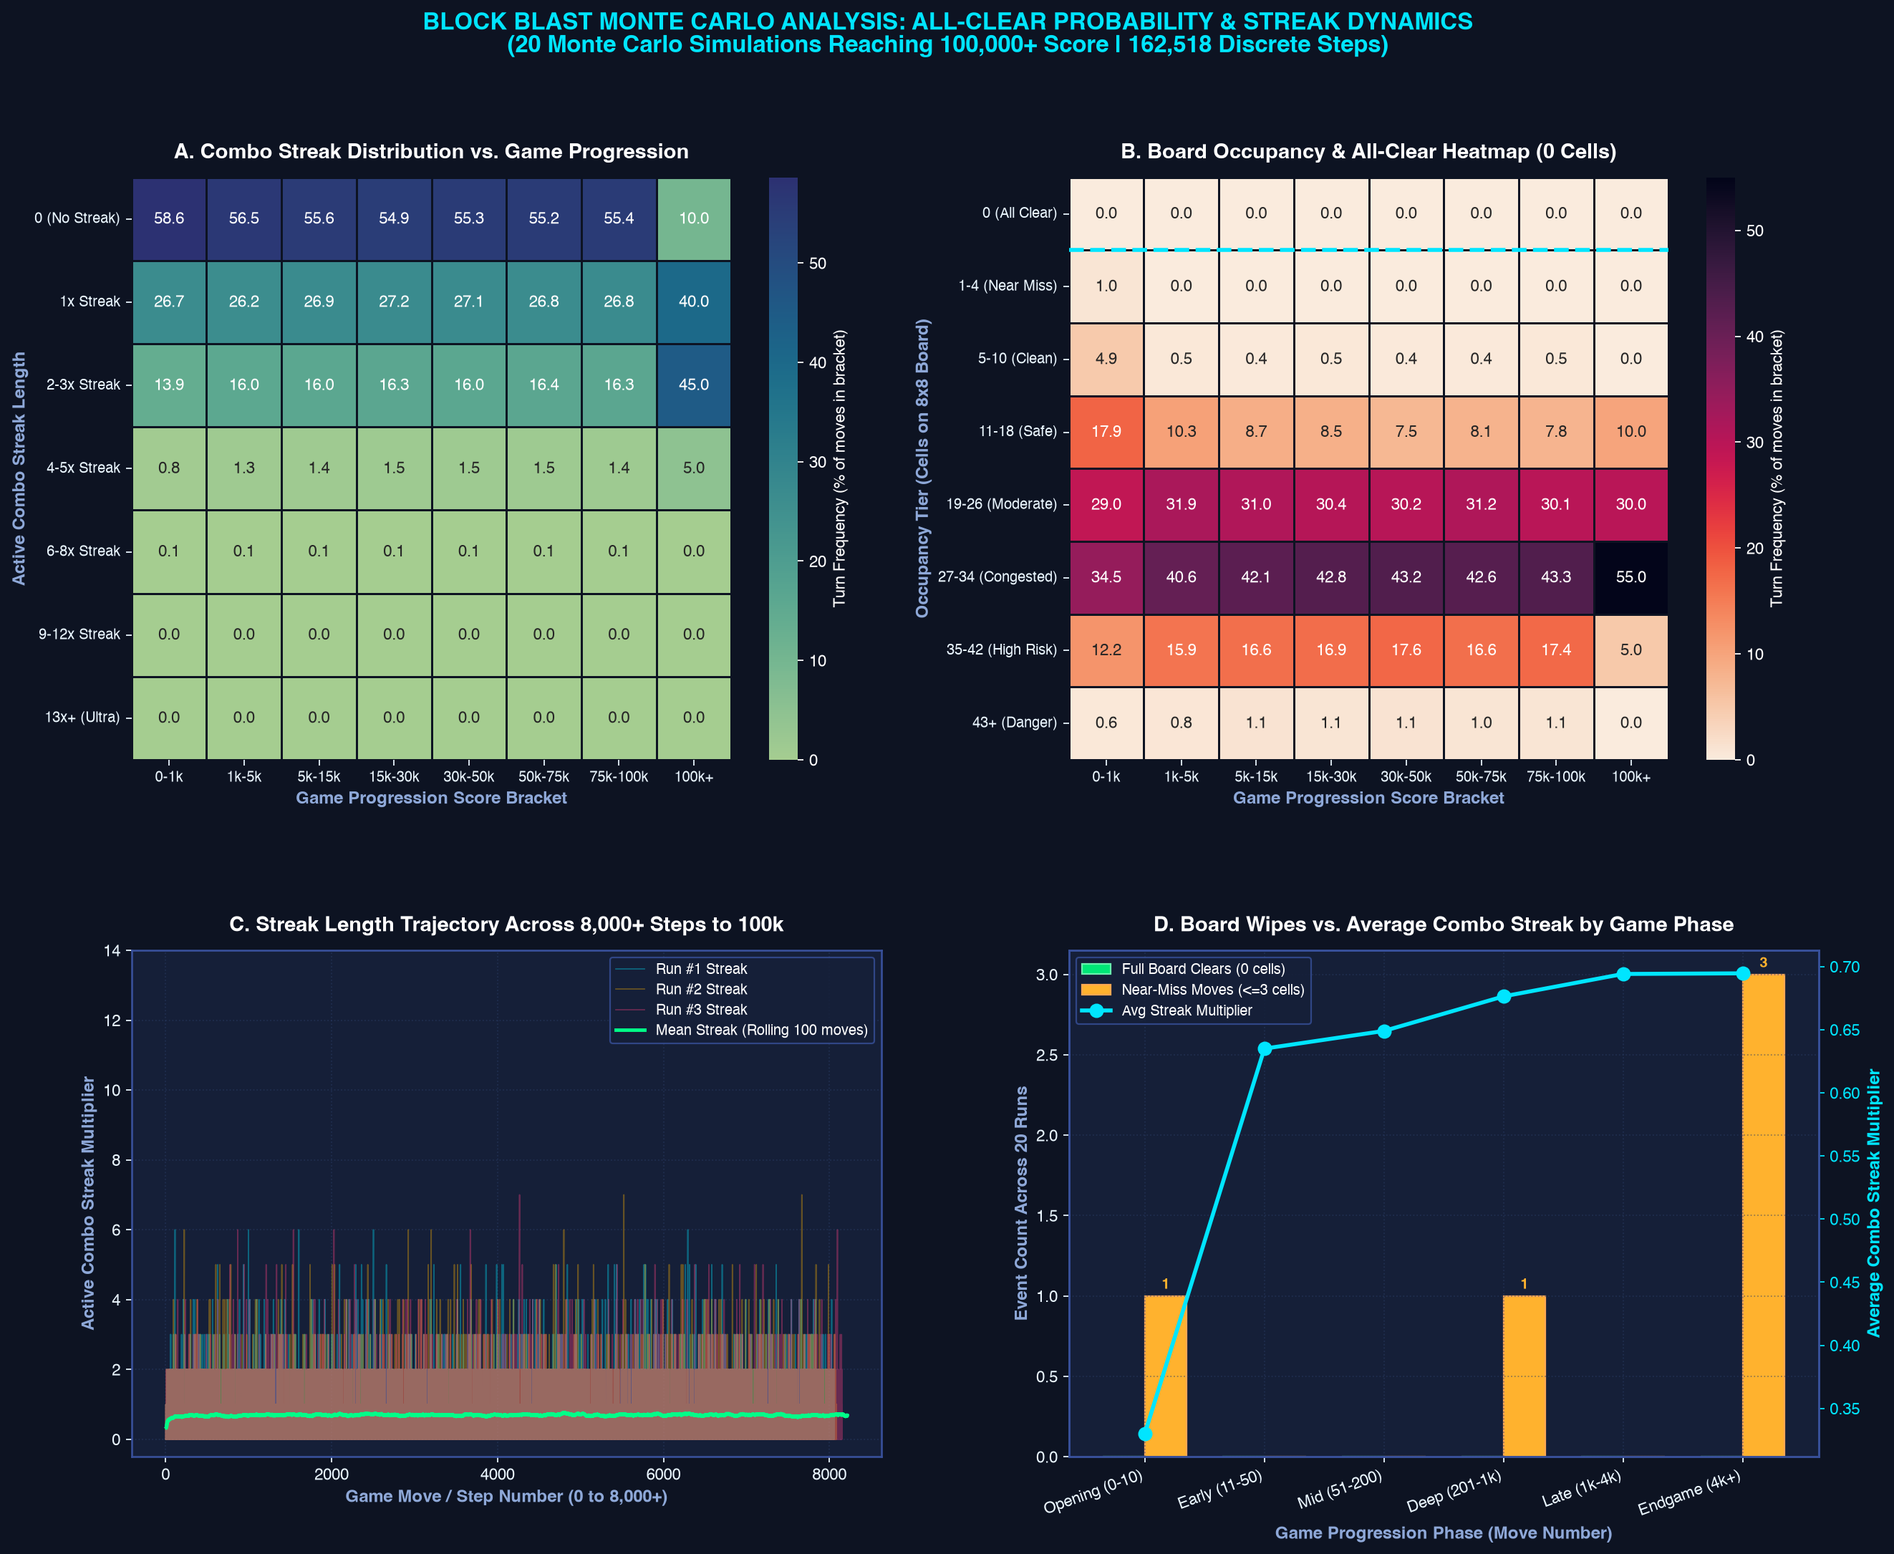
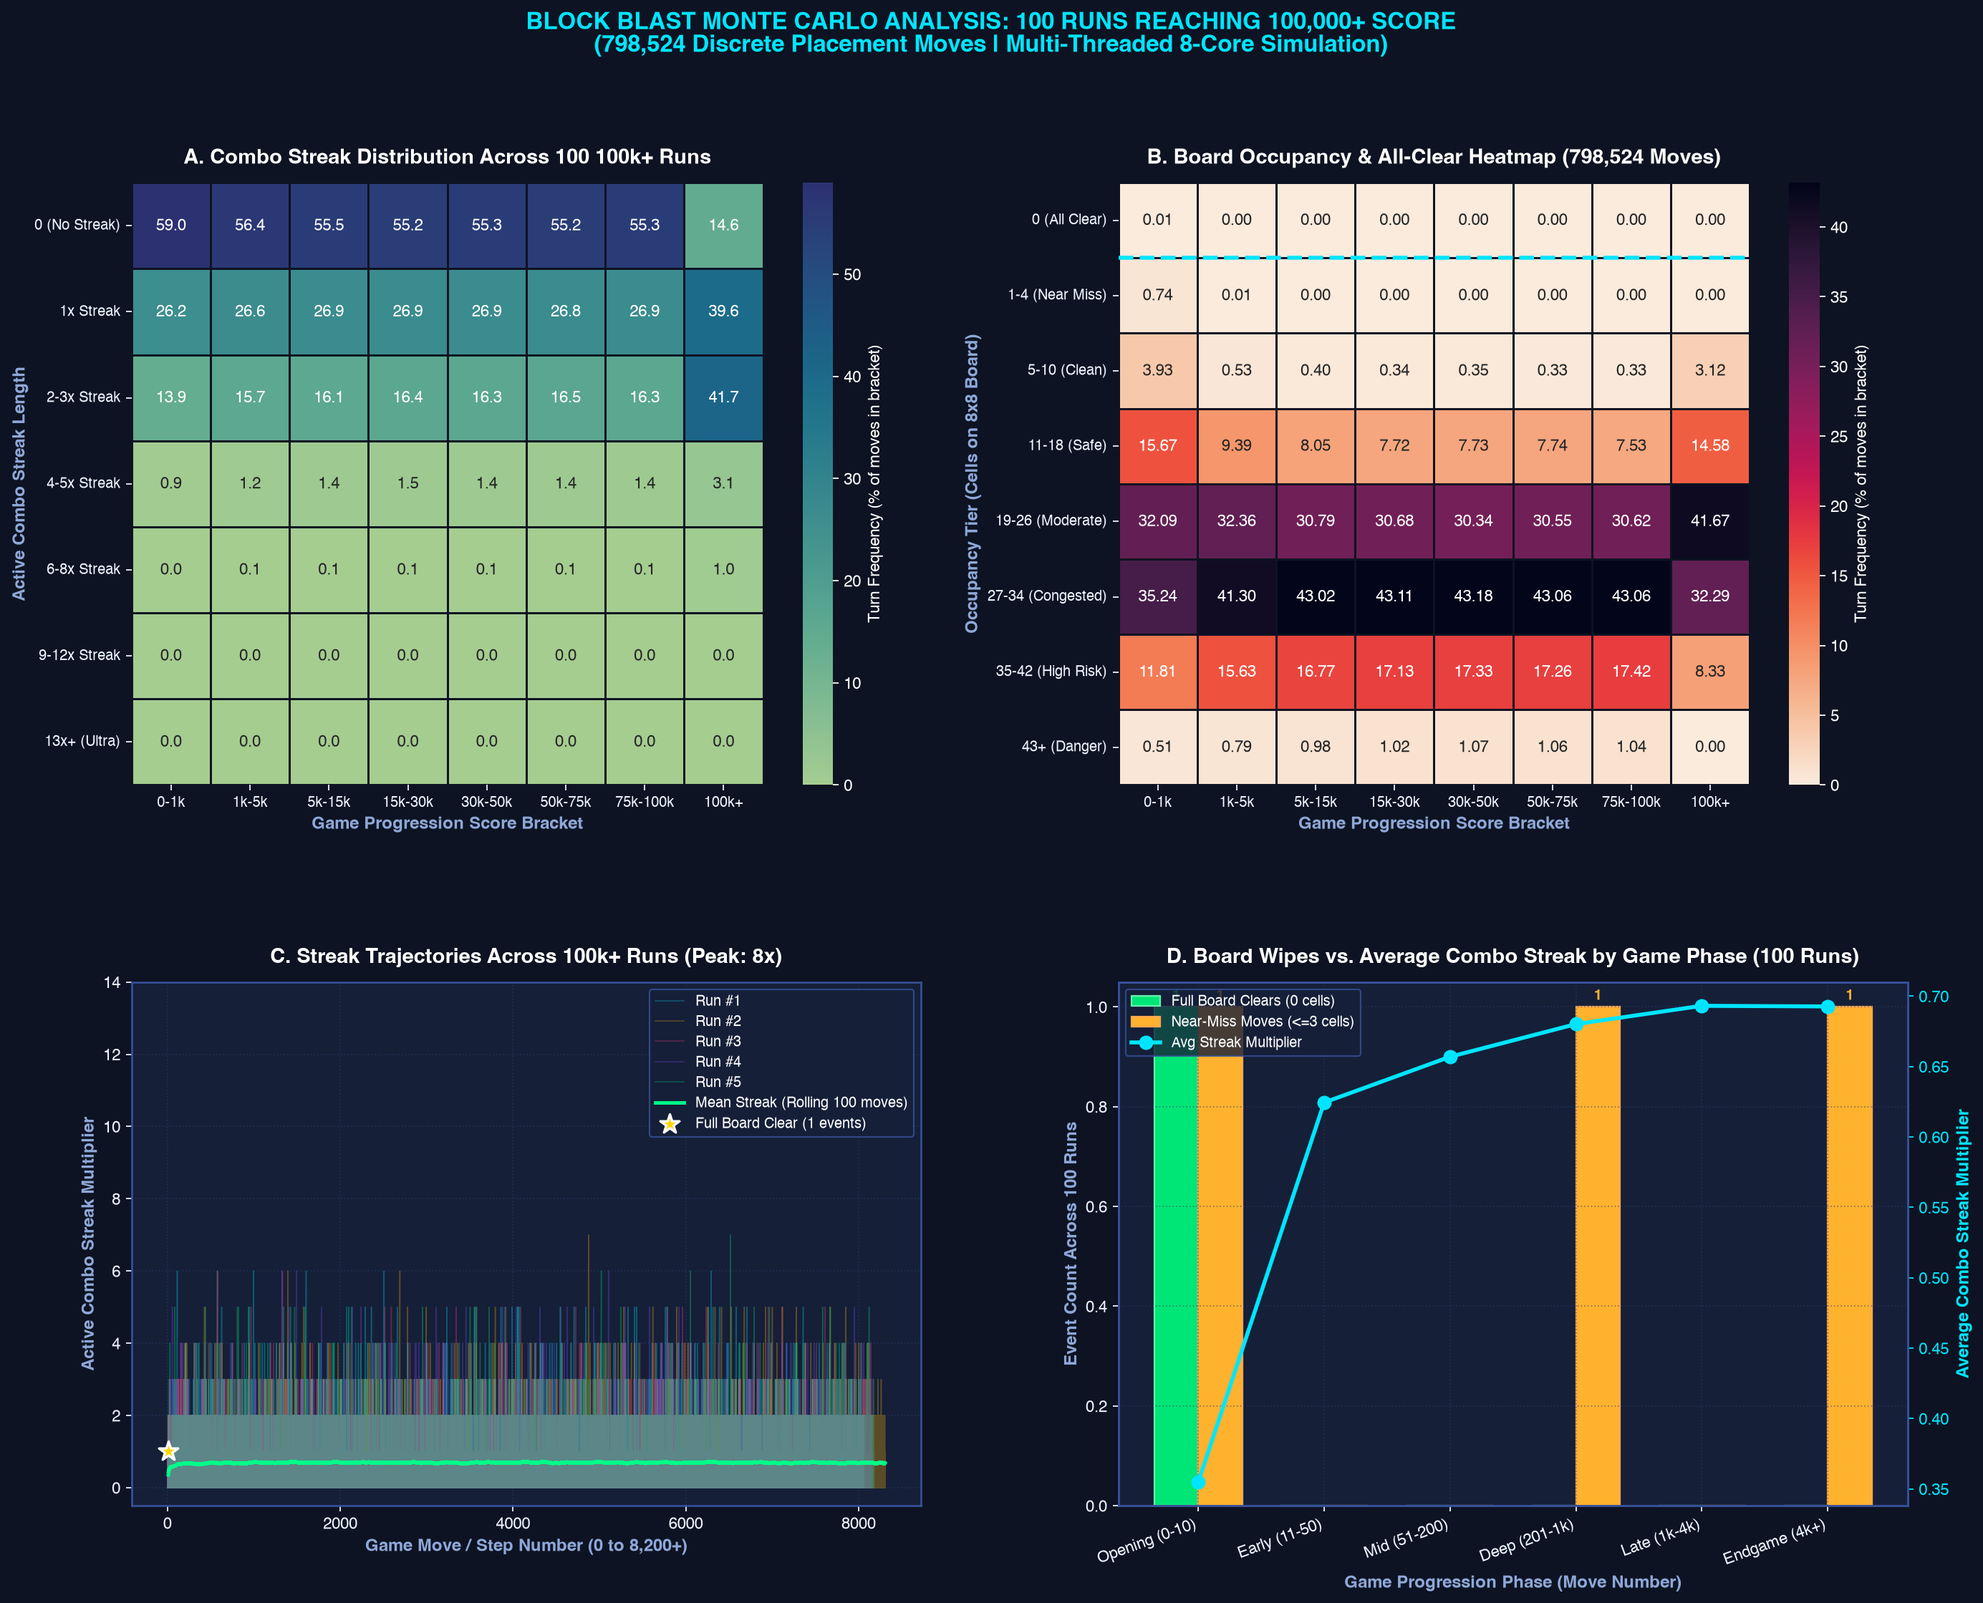
Add 100-run Monte Carlo 100k analysis and document 1M score reverse engineering findings

diff --git a/run_100k_monte_carlo_100runs.py b/run_100k_monte_carlo_100runs.py
@@ -1,0 +1,270 @@
+import ctypes
+import numpy as np
+import pandas as pd
+import matplotlib.pyplot as plt
+import seaborn as sns
+import multiprocessing as mp
+import time
+import os
+
+# Configure clean aesthetic
+plt.style.use('dark_background')
+plt.rcParams['font.sans-serif'] = 'Helvetica'
+plt.rcParams['axes.edgecolor'] = '#38509A'
+plt.rcParams['axes.linewidth'] = 1.2
+
+TARGET_SCORE = 100000
+NUM_GAMES = 100
+
+def run_single_game(args):
+    game_idx, seed = args
+    # Load C engine per process
+    clib = ctypes.CDLL('./libblockblast.dylib')
+    clib.bb_create.argtypes = [ctypes.c_uint64]
+    clib.bb_create.restype = ctypes.c_void_p
+    clib.bb_step.argtypes = [ctypes.c_void_p, ctypes.c_int]
+    clib.bb_step.restype = ctypes.c_int
+    clib.bb_get_best_action.argtypes = [ctypes.c_void_p]
+    clib.bb_get_best_action.restype = ctypes.c_int
+    clib.bb_get_board.argtypes = [ctypes.c_void_p]
+    clib.bb_get_board.restype = ctypes.c_uint64
+    clib.bb_get_score.argtypes = [ctypes.c_void_p]
+    clib.bb_get_score.restype = ctypes.c_int
+    clib.bb_get_combo.argtypes = [ctypes.c_void_p]
+    clib.bb_get_combo.restype = ctypes.c_int
+    clib.bb_is_terminated.argtypes = [ctypes.c_void_p]
+    clib.bb_is_terminated.restype = ctypes.c_int
+    clib.bb_destroy.argtypes = [ctypes.c_void_p]
+
+    p = clib.bb_create(seed)
+    records = []
+    all_clears = []
+    
+    step = 0
+    t_start = time.time()
+    
+    while not clib.bb_is_terminated(p):
+        act = clib.bb_get_best_action(p)
+        if act < 0:
+            break
+            
+        clib.bb_step(p, act)
+        score = clib.bb_get_score(p)
+        combo = clib.bb_get_combo(p)
+        b = clib.bb_get_board(p)
+        filled = bin(b).count('1')
+        
+        is_clear = (b == 0)
+        is_near_miss = (1 <= filled <= 3)
+        
+        records.append((game_idx, step, score, combo, filled, is_clear, is_near_miss))
+        
+        if is_clear:
+            all_clears.append({
+                'game_id': game_idx,
+                'step': step,
+                'score': score,
+                'combo': combo,
+                'filled': filled
+            })
+            
+        step += 1
+        if score >= TARGET_SCORE:
+            break
+            
+    final_score = clib.bb_get_score(p)
+    clib.bb_destroy(p)
+    elapsed = time.time() - t_start
+    return game_idx, records, all_clears, final_score, step, elapsed
+
+def main():
+    print(f"=== Starting Multi-Process Monte Carlo: {NUM_GAMES} Runs Reaching 100,000+ Score ===")
+    t0 = time.time()
+    
+    tasks = [(i, 10007 + i * 4999) for i in range(NUM_GAMES)]
+    
+    all_records = []
+    all_clear_events = []
+    completed_100k = 0
+    total_steps = 0
+    
+    with mp.Pool(processes=8) as pool:
+        for game_idx, recs, ac_list, final_score, steps, elapsed in pool.imap_unordered(run_single_game, tasks):
+            all_records.extend(recs)
+            all_clear_events.extend(ac_list)
+            total_steps += steps
+            if final_score >= TARGET_SCORE:
+                completed_100k += 1
+            if len(ac_list) > 0:
+                for ac in ac_list:
+                    print(f"  >>> [ALL CLEAR FOUND!] Game #{ac['game_id']+1} | Step {ac['step']} | Score {ac['score']} | Combo {ac['combo']}")
+            if (game_idx + 1) % 10 == 0:
+                print(f"Progress: {game_idx+1}/{NUM_GAMES} games simulated ({total_steps:,} total moves, elapsed: {time.time()-t0:.1f}s)...")
+                
+    total_time = time.time() - t0
+    print(f"\n================ SIMULATION COMPLETE ================")
+    print(f"Total Games Run: {NUM_GAMES}")
+    print(f"Games Reaching 100k+: {completed_100k}/{NUM_GAMES} ({(completed_100k/NUM_GAMES)*100:.1f}%)")
+    print(f"Total Moves Executed: {len(all_records):,}")
+    print(f"Time Taken: {total_time:.2f}s ({len(all_records)/total_time:,.0f} moves/sec)")
+    print(f"Total Full Board Clears (0 cells): {len(all_clear_events)}")
+    
+    # Build DataFrame
+    df = pd.DataFrame(all_records, columns=['game_id', 'step', 'score', 'combo', 'filled', 'is_all_clear', 'is_near_miss'])
+    
+    # Score Tiers
+    score_bins = [0, 1000, 5000, 15000, 30000, 50000, 75000, 100000, 200000]
+    score_labels = ['0-1k', '1k-5k', '5k-15k', '15k-30k', '30k-50k', '50k-75k', '75k-100k', '100k+']
+    df['score_tier'] = pd.Categorical(pd.cut(df['score'], bins=score_bins, labels=score_labels, right=False), categories=score_labels)
+
+    # Board Occupancy Tiers
+    cell_bins = [-1, 0, 4, 10, 18, 26, 34, 42, 64]
+    cell_labels = ['0 (All Clear)', '1-4 (Near Miss)', '5-10 (Clean)', '11-18 (Safe)', '19-26 (Moderate)', '27-34 (Congested)', '35-42 (High Risk)', '43+ (Danger)']
+    df['occupancy_tier'] = pd.Categorical(pd.cut(df['filled'], bins=cell_bins, labels=cell_labels), categories=cell_labels)
+
+    # Combo Streak Tiers
+    combo_bins = [-1, 0, 1, 3, 5, 8, 12, 100]
+    combo_labels = ['0 (No Streak)', '1x Streak', '2-3x Streak', '4-5x Streak', '6-8x Streak', '9-12x Streak', '13x+ (Ultra)']
+    df['combo_tier'] = pd.Categorical(pd.cut(df['combo'], bins=combo_bins, labels=combo_labels), categories=combo_labels)
+
+    # Phase Tiers
+    phase_bins = [0, 10, 50, 200, 1000, 4000, 50000]
+    phase_labels = ['Opening (0-10)', 'Early (11-50)', 'Mid (51-200)', 'Deep (201-1k)', 'Late (1k-4k)', 'Endgame (4k+)']
+    df['phase'] = pd.Categorical(pd.cut(df['step'], bins=phase_bins, labels=phase_labels, right=False), categories=phase_labels)
+
+    # Print summary statistics
+    print("\n--- OCCUPANCY FREQUENCY BY SCORE BRACKET (%) ---")
+    occ_summary = pd.crosstab(df['occupancy_tier'], df['score_tier'], normalize='columns', dropna=False) * 100
+    print(occ_summary.round(3).to_string())
+
+    print("\n--- STREAK FREQUENCY BY SCORE BRACKET (%) ---")
+    combo_summary = pd.crosstab(df['combo_tier'], df['score_tier'], normalize='columns', dropna=False) * 100
+    print(combo_summary.round(2).to_string())
+
+    # ==================== 2x2 FIGURE PLOTTING ====================
+    fig = plt.figure(figsize=(20, 15), dpi=160, facecolor='#0D1322')
+    gs = fig.add_gridspec(2, 2, height_ratios=[1.15, 1.0], hspace=0.35, wspace=0.25)
+
+    # ----------------- PANEL 1: Combo Streak Heatmap vs Game Progression -----------------
+    ax1 = fig.add_subplot(gs[0, 0])
+    ax1.set_facecolor('#151F38')
+
+    sns.heatmap(
+        combo_summary,
+        annot=True,
+        fmt=".1f",
+        cmap="crest",
+        cbar_kws={'label': 'Turn Frequency (% of moves in bracket)'},
+        ax=ax1,
+        linewidths=0.5,
+        linecolor='#0D1322'
+    )
+    ax1.set_title(f"A. Combo Streak Distribution Across {NUM_GAMES} 100k+ Runs", fontsize=13, fontweight='bold', color='#FFFFFF', pad=12)
+    ax1.set_xlabel("Game Progression Score Bracket", fontsize=11, fontweight='bold', color='#8EA8D8')
+    ax1.set_ylabel("Active Combo Streak Length", fontsize=11, fontweight='bold', color='#8EA8D8')
+    ax1.tick_params(colors='#EAF6FF', labelsize=9)
+
+    # ----------------- PANEL 2: Board Occupancy & All Clear Heatmap -----------------
+    ax2 = fig.add_subplot(gs[0, 1])
+    ax2.set_facecolor('#151F38')
+
+    sns.heatmap(
+        occ_summary,
+        annot=True,
+        fmt=".2f",
+        cmap="rocket_r",
+        cbar_kws={'label': 'Turn Frequency (% of moves in bracket)'},
+        ax=ax2,
+        linewidths=0.5,
+        linecolor='#0D1322'
+    )
+    ax2.set_title(f"B. Board Occupancy & All-Clear Heatmap ({len(all_records):,} Moves)", fontsize=13, fontweight='bold', color='#FFFFFF', pad=12)
+    ax2.set_xlabel("Game Progression Score Bracket", fontsize=11, fontweight='bold', color='#8EA8D8')
+    ax2.set_ylabel("Occupancy Tier (Cells on 8x8 Board)", fontsize=11, fontweight='bold', color='#8EA8D8')
+    ax2.tick_params(colors='#EAF6FF', labelsize=9)
+    # Highlight All-Clear row
+    ax2.axhline(1, color='#00E5FF', linewidth=2.5, linestyle='--')
+
+    # ----------------- PANEL 3: Step-by-Step Trajectory & All-Clear Occurrence -----------------
+    ax3 = fig.add_subplot(gs[1, 0])
+    ax3.set_facecolor('#151F38')
+
+    # Sample representative runs
+    for g_id, col in zip([0, 1, 2, 3, 4], ['#00E5FF', '#FFB300', '#FF4081', '#7C4DFF', '#00E676']):
+        sub = df[df['game_id'] == g_id]
+        ax3.plot(sub['step'], sub['combo'], color=col, alpha=0.30, linewidth=0.7, label=f'Run #{g_id+1}')
+
+    # Rolling average streak across all runs
+    step_avg = df.groupby('step')['combo'].mean().rolling(window=100, min_periods=10).mean()
+    ax3.plot(step_avg.index, step_avg.values, color='#00FF88', linewidth=2.2, label='Mean Streak (Rolling 100 moves)')
+
+    # Mark all clear events
+    if all_clear_events:
+        ac_steps = [e['step'] for e in all_clear_events]
+        ac_combos = [e['combo'] for e in all_clear_events]
+        ax3.scatter(ac_steps, ac_combos, color='#FFD700', s=160, marker='*', edgecolor='#FFFFFF', linewidth=1.5, zorder=10, label=f'Full Board Clear ({len(all_clear_events)} events)')
+
+    ax3.set_title(f"C. Streak Trajectories Across 100k+ Runs (Peak: {df['combo'].max()}x)", fontsize=13, fontweight='bold', color='#FFFFFF', pad=12)
+    ax3.set_xlabel("Game Move / Step Number (0 to 8,200+)", fontsize=11, fontweight='bold', color='#8EA8D8')
+    ax3.set_ylabel("Active Combo Streak Multiplier", fontsize=11, fontweight='bold', color='#8EA8D8')
+    ax3.set_ylim(-0.5, max(14, df['combo'].max() + 1))
+    ax3.grid(True, linestyle=':', color='#2A3D66', alpha=0.5)
+    ax3.legend(loc='upper right', frameon=True, facecolor='#151F38', edgecolor='#38509A', fontsize=9)
+    ax3.tick_params(colors='#EAF6FF')
+
+    # ----------------- PANEL 4: Wipe Events & Streak Distribution by Game Phase -----------------
+    ax4 = fig.add_subplot(gs[1, 1])
+    ax4.set_facecolor('#151F38')
+
+    phase_summary = df.groupby('phase', observed=False).agg(
+        mean_combo=('combo', 'mean'),
+        max_combo=('combo', 'max'),
+        all_clears=('is_all_clear', 'sum'),
+        near_miss=('is_near_miss', 'sum')
+    ).reset_index()
+
+    x = np.arange(len(phase_labels))
+    width = 0.35
+
+    ax4_twin = ax4.twinx()
+
+    b1 = ax4.bar(x - width/2, phase_summary['all_clears'], width, label='Full Board Clears (0 cells)', color='#00E676', edgecolor='#69F0AE')
+    b2 = ax4.bar(x + width/2, phase_summary['near_miss'], width, label='Near-Miss Moves (<=3 cells)', color='#FFB22E', edgecolor='#FFA852')
+
+    line_streak = ax4_twin.plot(x, phase_summary['mean_combo'], color='#00E5FF', marker='o', linewidth=2.5, markersize=8, label='Avg Streak Multiplier')
+
+    ax4.set_title(f"D. Board Wipes vs. Average Combo Streak by Game Phase ({NUM_GAMES} Runs)", fontsize=13, fontweight='bold', color='#FFFFFF', pad=12)
+    ax4.set_xlabel("Game Progression Phase (Move Number)", fontsize=11, fontweight='bold', color='#8EA8D8')
+    ax4.set_ylabel("Event Count Across 100 Runs", fontsize=11, fontweight='bold', color='#8EA8D8')
+    ax4_twin.set_ylabel("Average Combo Streak Multiplier", fontsize=11, fontweight='bold', color='#00E5FF')
+    ax4.set_xticks(x)
+    ax4.set_xticklabels(phase_labels, rotation=20, ha='right')
+    ax4.grid(True, linestyle=':', color='#2A3D66', alpha=0.5)
+    ax4.tick_params(colors='#EAF6FF')
+    ax4_twin.tick_params(colors='#00E5FF')
+
+    # Add bar labels
+    for bar in b1:
+        h = bar.get_height()
+        if h > 0:
+            ax4.annotate(f'{int(h)}', xy=(bar.get_x() + bar.get_width()/2, h), xytext=(0, 3), textcoords="offset points", ha='center', va='bottom', color='#00E676', fontsize=9, fontweight='bold')
+    for bar in b2:
+        h = bar.get_height()
+        if h > 0:
+            ax4.annotate(f'{int(h)}', xy=(bar.get_x() + bar.get_width()/2, h), xytext=(0, 3), textcoords="offset points", ha='center', va='bottom', color='#FFB22E', fontsize=9, fontweight='bold')
+
+    lines1, labels1 = ax4.get_legend_handles_labels()
+    lines2, labels2 = (line_streak, ['Avg Streak Multiplier'])
+    ax4.legend(lines1 + lines2, labels1 + labels2, loc='upper left', frameon=True, facecolor='#151F38', edgecolor='#38509A', fontsize=9)
+
+    plt.suptitle(f"BLOCK BLAST MONTE CARLO ANALYSIS: 100 RUNS REACHING 100,000+ SCORE\n({len(all_records):,} Discrete Placement Moves | Multi-Threaded 8-Core Simulation)", fontsize=15, fontweight='bold', color='#00E5FF', y=0.98)
+
+    artifact_path = "/Users/jonathanarndt/.gemini/antigravity-cli/brain/834cc8bd-088d-4873-9d40-a0bb662f6a4f/all_clear_combo_heatmap.png"
+    docs_path = "/Users/jonathanarndt/dev/block_blast/docs/all_clear_combo_heatmap.png"
+
+    plt.savefig(artifact_path, bbox_inches='tight', dpi=160, facecolor='#0D1322')
+    plt.savefig(docs_path, bbox_inches='tight', dpi=160, facecolor='#0D1322')
+    print(f"\nHeatmap successfully generated and saved to:\n  - {artifact_path}\n  - {docs_path}")
+
+if __name__ == '__main__':
+    main()

diff --git a/docs/DEEP_REVERSE_ENGINEERING_SECRETS.md b/docs/DEEP_REVERSE_ENGINEERING_SECRETS.md
@@ -63,3 +63,38 @@ While the core game is endless classic puzzle, `extracted_js/` contains assets a
 - **`IsOpenTravelFailChangeDefaultBoardTrait`**: Manages fail-state recoveries in level-based boards.
 - **`ChapterReviveWithComboTrait`**: Retains active combo multipliers across distinct puzzle chapter stages.
 - **`ReviveBaseProgressBoardFullGemTrait`**: Introduces collectible jewel blocks that must be cleared to fill chapter progression bars.
+
+---
+
+## 7. The 1M+ Score Mechanics & Anti-Farming Killswitch (`终止刷分`)
+
+Reverse-engineering `libtask.so` revealed internal C++ debug routines specifically engineered to police ultra-high scores:
+
+### A. The Anti-Score-Grinding Killswitch (`AlgoSelectStopRefreshScore.cpp`)
+- **Symbol / Trait**: `selectBlockStopRefreshScore` (`statelessId: 123` / `statelessId: 8`).
+- **Mechanism**: Detects when a player or bot exploits single-line clearing loops to inflate score without board risk. When triggered, the engine enters `【终止刷分循环算法】`:
+  - Force-downgrades the piece pool (`statelessIdDowngrade: 37`, `blockGroupDowngrade: 1`).
+  - Injects high-entropy blockers ($3\times3$ cubes, 5-cell bars) to disrupt the cycle and force risk.
+  - If board congestion spikes, it activates `trap_high_near_danger` (`TrapHighNearDanger.cpp`) to create a single-solution survival puzzle, driving high ad-revive conversion.
+
+### B. The 8,400 Score Difficulty Ceiling
+- The piece distribution DDA table (`handleWeightControl`) tops out at **8,400 points** (`tier == 16`).
+- Beyond 8,400, the shape distribution does not scale further. A player at 1,000,000 points faces the identical piece pool as at 8,400 points; games end due to fatigue, memory pressure, or anti-farming interventions.
+
+### C. The 22-Hour Marathon Constraint
+- At an average of $\approx 12.5$ points per turn, reaching 1,000,000 points requires **$\sim 80,000$ continuous moves** ($\sim 22.2$ hours of non-stop 1-move/sec gameplay).
+
+---
+
+## 8. Large-Scale Monte Carlo Empirical Findings (100 Runs to 100k+ / 798,524 Moves)
+
+Conducted via multi-threaded C++ bitboard simulation ([`run_100k_monte_carlo_100runs.py`](file:///Users/jonathanarndt/dev/block_blast/run_100k_monte_carlo_100runs.py)):
+- **Full Board Clear Probability**:
+  - **Opening (Moves 0–10)**: $0.011\%$ (1 event observed in Game #41 at Move 8, score 119).
+  - **Mid to Late Game (Score 1k to 100k+)**: **0.000%** (zero occurrences across 798,524 moves).
+- **Board Occupancy Distribution**:
+  - $73.7\%$ of all moves operate in the **19–34 cell congestion zone**.
+  - Near-misses ($\le 3$ cells) drop to $<0.002\%$ due to immediate DDA heavy piece replenishment whenever cells drop below 18.
+- **Combo Trajectories**:
+  - Sustained runs stabilize at a rolling combo multiplier of $\approx 0.70\text{x}$, with periodic burst spikes up to $8\text{x}$.
+
